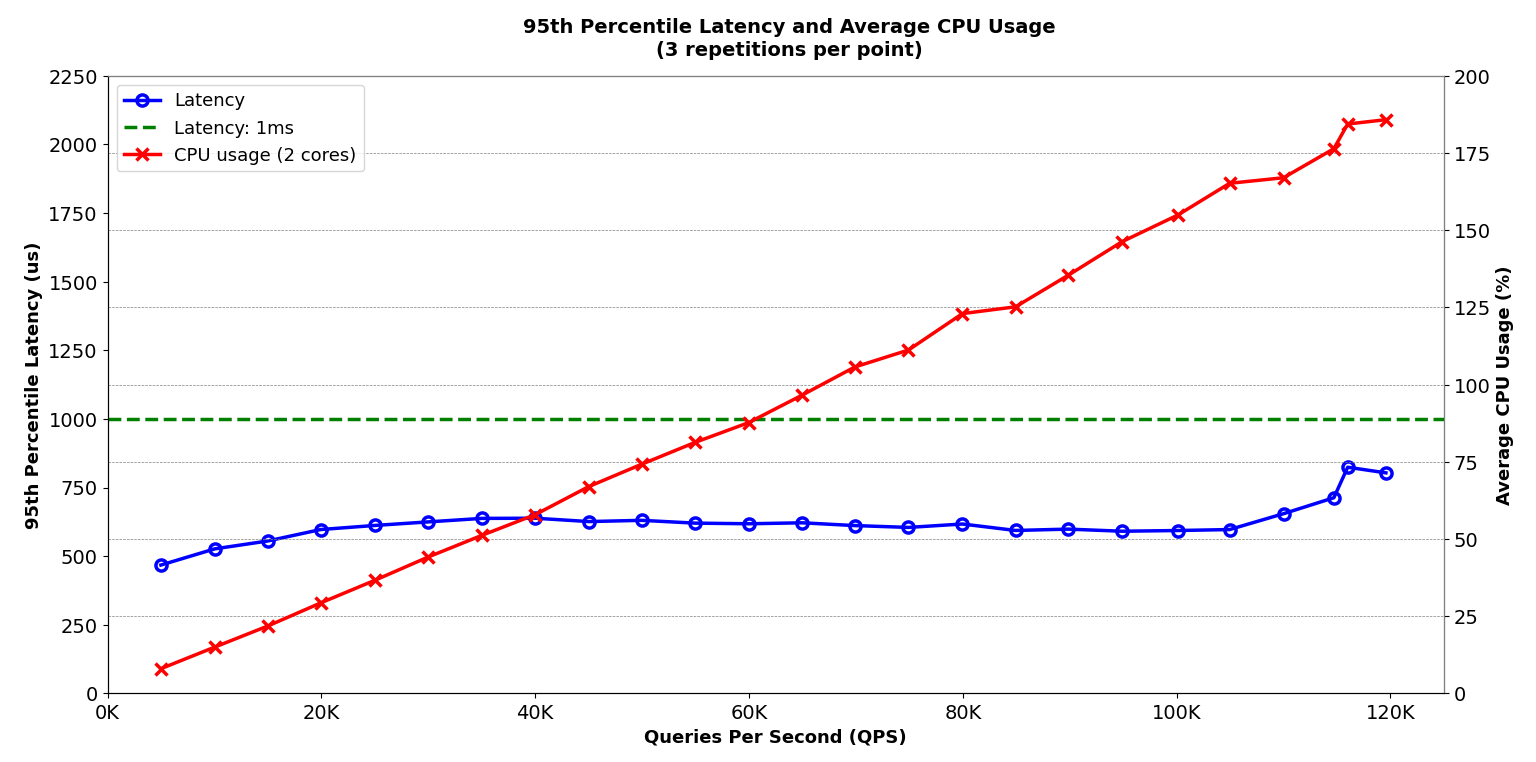
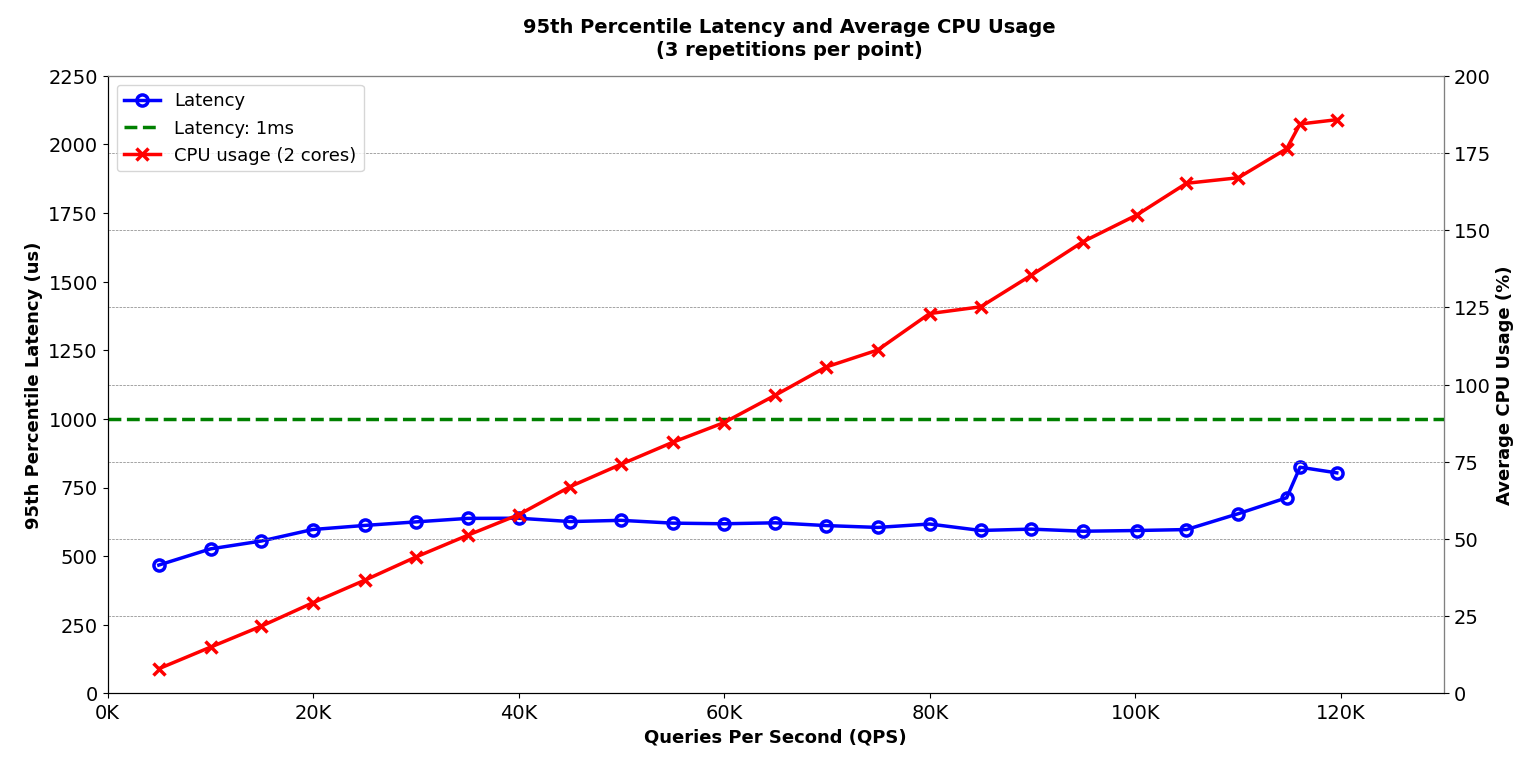
x axis until 130K QPS

diff --git a/Part4_1/part4_1_extracted_data/create_plot_with_cpu.py b/Part4_1/part4_1_extracted_data/create_plot_with_cpu.py
@@ -87,7 +87,7 @@ for nr_cores in cores:
     lines2, labels2 = ax2.get_legend_handles_labels()
     ax2.legend(lines1 + lines2, labels1 + labels2, fontsize=13)
 
-    ax1.set_xlim(0, 125000)
+    ax1.set_xlim(0, 130000)
     ax1.set_ylim(0, 2250)
     ax2.set_ylim(0, 100 * nr_cores)
 
